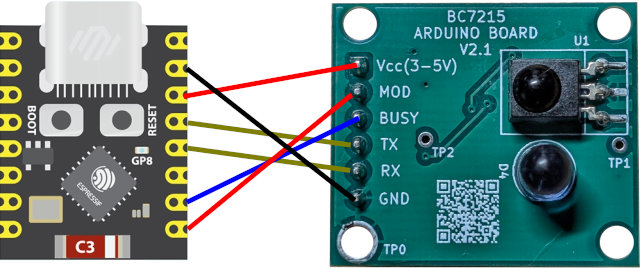
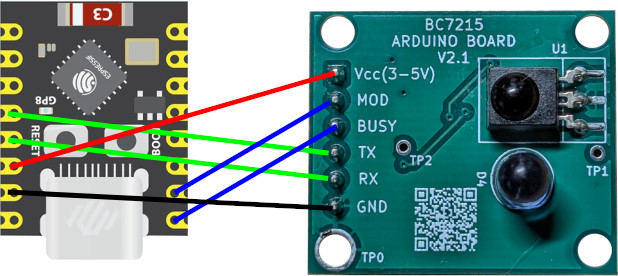
Fixed wrong XIAO board wiring image. Changed all images to jpg to get better display in dark theme

diff --git a/README.md b/README.md
@@ -14,7 +14,7 @@ A casing 3D model is provided, if you have a 3D printer, you can make this devic
 
 More details about casing is [here](./docs/casing.md).
 
-![](img/use-illustration_800px.png)
+![](img/use-illustration_800px.jpg)
 
 ## Installation Methods
 
@@ -32,17 +32,17 @@ XIAO is recomended as I found it has very good WiFi reception. I also modified t
 
 Connections for the **ESP32-C3 XIAO**:
 
-![](./img/XIAO-bc7215module-wiring.png)
+![](./img/xiao-bc7215module-wiring.jpg)
 
 Connections for the **ESP32-C3 Super Mini** :
 
 *Note: It's different from the original (V1.4 or earlier), for upgrading firmwire from early versions go to the web install page and select 'LEGACY'*
 
-![](img/supermini-bc7215module-wiring.png)
+![](img/supermini-bc7215module-wiring.jpg)
 
 Connections for the **Classic ESP32**:
 
-![](./img/esp32-bc7215module-wiring.png)
+![](./img/esp32-bc7215module-wiring.jpg)
 
 Once the hardware is ready, open the following page and follow the on-screen instructions:
 
